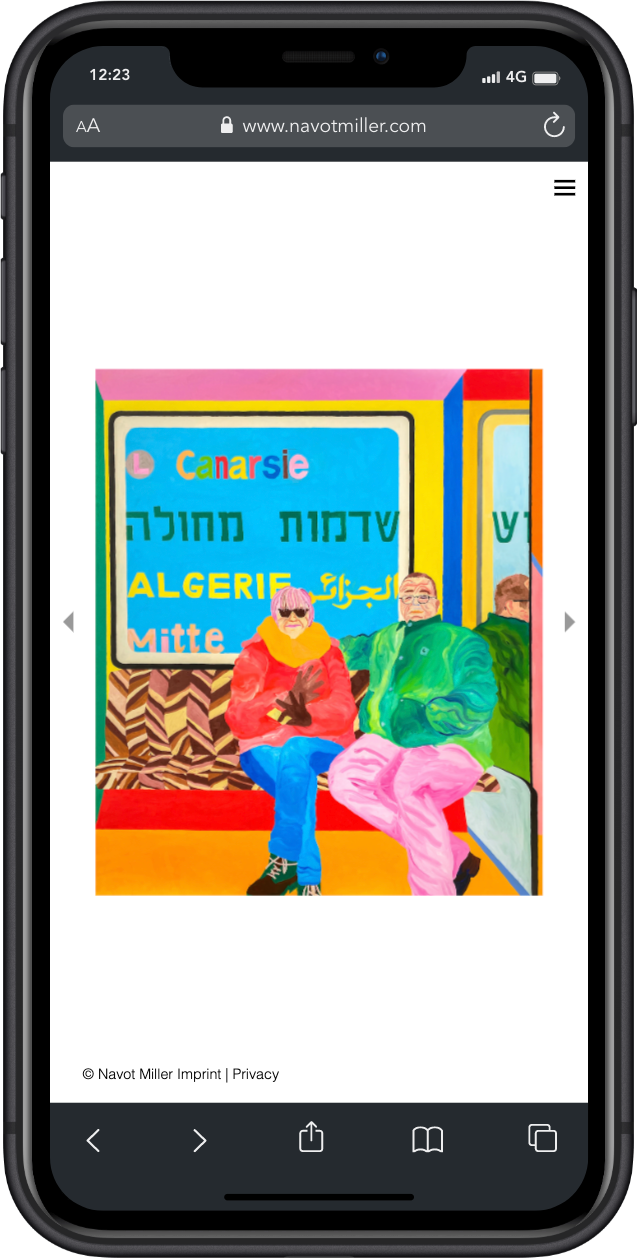
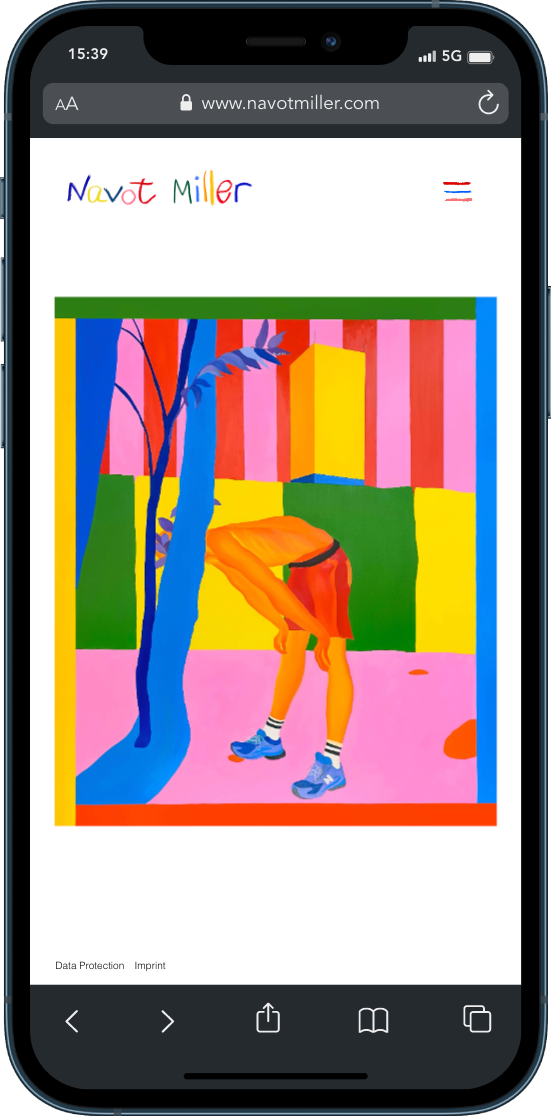
projects update

diff --git a/components/Projects.js b/components/Projects.js
@@ -1,6 +1,7 @@
 import React from "react";
 import covid19 from "../public/covid19.png";
-import louandyou from "../public/louandyou.webp";
+import louandyou from "../public/louandyou.png";
+import { useEffect } from "react";
 import navot from "../public/navot.png";
 import nami from "../public/nami.png";
 import Image from "next/image";
@@ -24,10 +25,11 @@ function Projects() {
                     <p>
                         A web app for the Society for Innovation in Gender
                         Equality, that aims to help those who are affected by
-                        sexual or domestic violence, by centralizing and
-                        personalizing helpful information.
+                        sexual or domestic violence. <br />
+                        The app is centralizing and personalizing helpful
+                        information.
                         <br />
-                        The app is built with{" "}
+                        Built with{" "}
                         <a
                             rel="noreferrer"
                             target={"_blank"}
@@ -63,44 +65,30 @@ function Projects() {
                         className="button my-5 is-dark is-rounded is-hidden-mobile"
                         href="https://louandyou.org/en"
                     >
-                        Live Version
+                        louandyou.org
                     </a>
                 </span>
-                <motion.div
-                    className="is-relative"
-                    style={{ width: "100%", height: "100%", flex: 1 }}
-                    animate={{ y: [0, 10, 0] }}
-                    transition={{
-                        type: "spring",
-                        stiffness: 15,
-                        duration: 2,
-                        repeat: Infinity,
-                    }}
-                >
-                    <Image
-                        priority
-                        quality={100}
-                        alt="Lou&You"
-                        src={louandyou}
-                        layout="fill"
-                        objectFit="contain"
-                    />
-                </motion.div>
-
                 <a
                     rel="noreferrer"
                     target={"_blank"}
-                    className="button my-5 is-dark is-rounded is-hidden-tablet"
                     href="https://louandyou.org/en"
                 >
-                    Live Version
+                    <motion.img
+                        className={styles.lou_img}
+                        animate={{ y: [0, 10, 0] }}
+                        transition={{
+                            type: "spring",
+                            stiffness: 15,
+                            duration: 2,
+                            repeat: Infinity,
+                        }}
+                        alt="Lou&You"
+                        src={"/louandyou.png"}
+                    />
                 </a>
             </section>
             <section className={styles.project}>
-                <span
-                    className={styles.text}
-                    style={{ flex: 0.9, marginLeft: "3rem" }}
-                >
+                <span className={styles.text}>
                     <h2 className="my-5">Nami</h2>
                     <p>
                         A portfolio page for tatoo artist Nami.
@@ -129,35 +117,26 @@ function Projects() {
                         className="button my-5 is-dark is-rounded is-hidden-mobile"
                         href="https://nami-xi.vercel.app/"
                     >
-                        Live version
+                        nami-xi
                     </a>
                 </span>
-                <motion.div
-                    className="is-relative"
-                    style={{ width: "80%", height: "80%", flex: 1 }}
-                    animate={{ y: [0, 10, 0] }}
-                    transition={{
-                        type: "spring",
-                        stiffness: 15,
-                        duration: 2,
-                        repeat: Infinity,
-                    }}
-                >
-                    <Image
-                        priority
-                        alt="Nami"
-                        src={nami}
-                        layout="fill"
-                        objectFit="contain"
-                    />
-                </motion.div>
                 <a
                     rel="noreferrer"
                     target={"_blank"}
-                    className="button my-5 is-dark is-rounded is-hidden-tablet"
                     href="https://nami-xi.vercel.app/"
                 >
-                    Live version
+                    <motion.img
+                        animate={{ y: [0, 10, 0] }}
+                        transition={{
+                            type: "spring",
+                            stiffness: 15,
+                            duration: 2,
+                            repeat: Infinity,
+                        }}
+                        alt="Nami"
+                        className={styles.lou_img}
+                        src={"/nami.png"}
+                    />
                 </a>
             </section>
 
@@ -262,15 +241,18 @@ function Projects() {
                 </div>
             </section>
             <section className={styles.project}>
-                <span
-                    className={styles.text}
-                    style={{ flex: 0.9, marginLeft: "3rem" }}
-                >
+                <span className={styles.text}>
                     <h2 className="my-5">Navot Miller</h2>
                     <p>
                         A react-based simple portfolio for artist and bestie
-                        Navot Miller, with an image carousele and responsive
-                        navigation.
+                        Navot Miller, with an image carousele using{" "}
+                        <a
+                            className="has-text-weight-normal"
+                            href="https://firebase.google.com/"
+                        >
+                            Firebase
+                        </a>{" "}
+                        as the backend, and a responsive navigation.
                     </p>
                     <a
                         rel="noreferrer"
@@ -278,35 +260,26 @@ function Projects() {
                         className="button my-5 is-dark is-rounded is-hidden-mobile"
                         href="https://www.navotmiller.com/"
                     >
-                        Live version
+                        navotmiller.com
                     </a>
                 </span>
-                <motion.div
-                    className={styles.navot}
-                    style={{ width: "80%", height: "80%", flex: 1 }}
-                    animate={{ y: [0, 10, 0] }}
-                    transition={{
-                        type: "spring",
-                        stiffness: 15,
-                        duration: 2,
-                        repeat: Infinity,
-                    }}
-                >
-                    <Image
-                        priority
-                        alt="Navot Miller"
-                        src={navot}
-                        layout="fill"
-                        objectFit="contain"
-                    />
-                </motion.div>
                 <a
                     rel="noreferrer"
                     target={"_blank"}
-                    className="button my-5 is-dark is-rounded is-hidden-tablet"
                     href="https://www.navotmiller.com/"
                 >
-                    Live version
+                    <motion.img
+                        className={styles.lou_img}
+                        alt="Navot Miller"
+                        src={"/navot.png"}
+                        animate={{ y: [0, 10, 0] }}
+                        transition={{
+                            type: "spring",
+                            stiffness: 15,
+                            duration: 2,
+                            repeat: Infinity,
+                        }}
+                    />
                 </a>
             </section>
 

diff --git a/styles/Projects.module.scss b/styles/Projects.module.scss
@@ -6,12 +6,10 @@
     text-align: left;
     align-items: center;
     background-color: black;
+    justify-content: space-evenly;
     color: #eaeaea;
     line-height: 30px;
-    span {
-        flex: 1;
-        margin-left: 6rem;
-    }
+
     p {
         padding: 0.5rem 0;
     }
@@ -26,6 +24,14 @@
     position: relative;
 }
 
+.text {
+    width: 48%;
+}
+
+.lou_img {
+    width: 200px !important;
+}
+
 @media (max-width: 600px) {
     .project {
         text-align: center;
@@ -34,7 +40,7 @@
 
         p {
             font-size: 1rem !important;
-            line-height: 27px;
+            line-height: 22px;
             padding: 0;
         }
 
@@ -43,14 +49,19 @@
         }
 
         h2 {
-            margin-top: 0.5rem !important;
+            margin-top: 0rem !important;
+            margin-bottom: 1rem !important;
         }
     }
     .text {
-        flex: 0.5 !important;
+        width: 100%;
     }
     .navot {
         flex: 0.7 !important;
         margin-bottom: 5rem;
+    }
+    .lou_img {
+        width: 50% !important;
+        margin-top: 1.5rem;
     }
 }
